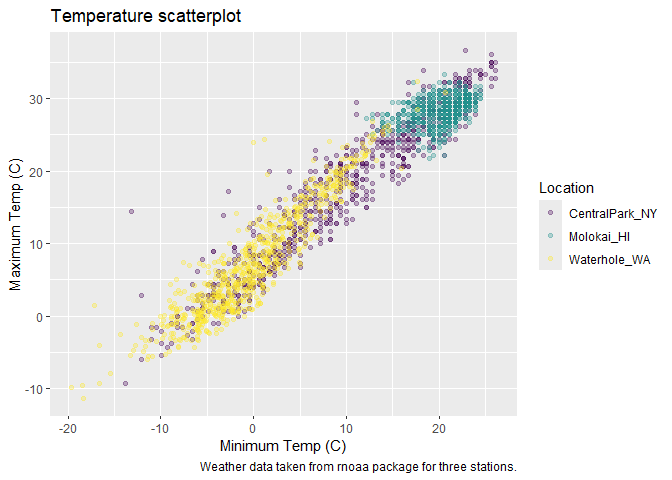
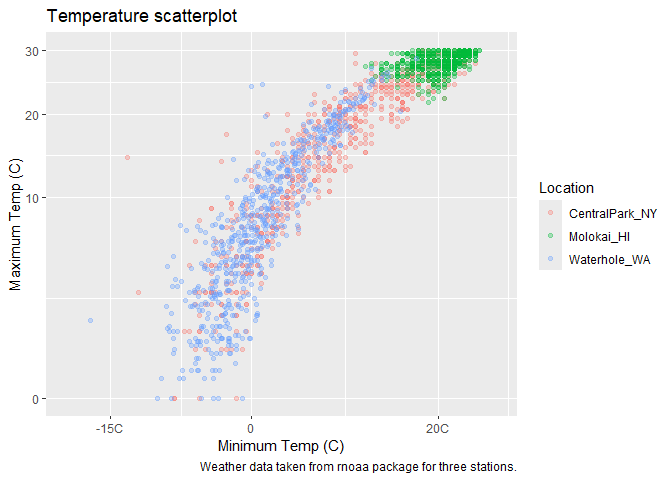
themes; patchwork; setting options

diff --git a/Vis_2.md b/Vis_2.md
@@ -99,6 +99,7 @@ Look at color:
 Use `viridis` package to choose color scheme
 
 ``` r
+ggp_scatterplot = 
 weather_df %>%
   ggplot(aes(x = tmin, y = tmax, color = name)) +
   geom_point(alpha = .3) +
@@ -112,7 +113,219 @@ weather_df %>%
   viridis::scale_color_viridis(discrete = TRUE)
 ```
 
+Themes
+
+Themes are used to modify non-data elements of a plot.
+
+``` r
+ggp_scatterplot +
+  theme(legend.position = "bottom")
+```
+
     ## Warning: Removed 17 rows containing missing values or values outside the scale range
     ## (`geom_point()`).
 
-![](Vis_2_files/figure-gfm/unnamed-chunk-4-1.png)<!-- -->
+![](Vis_2_files/figure-gfm/unnamed-chunk-5-1.png)<!-- -->
+
+``` r
+ggp_scatterplot +
+  theme_bw() +
+  theme(legend.position = "bottom")
+```
+
+    ## Warning: Removed 17 rows containing missing values or values outside the scale range
+    ## (`geom_point()`).
+
+![](Vis_2_files/figure-gfm/unnamed-chunk-6-1.png)<!-- -->
+
+Order matters…
+
+`theme()` changes a particular element of the plot’s current “theme”. If
+you call theme to change the some element and then `theme_bw()`, the
+changes introduced by `theme()` are overwritten by `theme_bw()`.
+
+``` r
+ggp_scatterplot +
+  theme(legend.position = "bottom") +
+  theme_bw()
+```
+
+    ## Warning: Removed 17 rows containing missing values or values outside the scale range
+    ## (`geom_point()`).
+
+![](Vis_2_files/figure-gfm/unnamed-chunk-7-1.png)<!-- -->
+
+``` r
+ggp_scatterplot +
+  theme_minimal() +
+  theme(legend.position = "bottom")
+```
+
+    ## Warning: Removed 17 rows containing missing values or values outside the scale range
+    ## (`geom_point()`).
+
+![](Vis_2_files/figure-gfm/unnamed-chunk-8-1.png)<!-- -->
+
+``` r
+ggp_scatterplot +
+  theme_classic() +
+  theme(legend.position = "bottom")
+```
+
+    ## Warning: Removed 17 rows containing missing values or values outside the scale range
+    ## (`geom_point()`).
+
+![](Vis_2_files/figure-gfm/unnamed-chunk-9-1.png)<!-- -->
+
+``` r
+ggp_scatterplot +
+  ggthemes::theme_excel() +
+  theme(legend.position = "bottom")
+```
+
+    ## Warning: Removed 17 rows containing missing values or values outside the scale range
+    ## (`geom_point()`).
+
+![](Vis_2_files/figure-gfm/unnamed-chunk-10-1.png)<!-- -->
+
+Learning assessment
+
+``` r
+weather_df %>% 
+  ggplot(aes(x = date, y = tmax, color = name)) +
+  geom_point(alpha = .3) +
+  geom_smooth(se = FALSE) +
+  viridis::scale_color_viridis(discrete = TRUE) +
+  labs(
+    x = "Date",
+    y = "Maximum Temp (C)",
+    title = "Seasonal variation in Max Temp"
+  ) +
+  theme_minimal() +
+  theme(legend.position = "bottom")
+```
+
+    ## `geom_smooth()` using method = 'loess' and formula = 'y ~ x'
+
+    ## Warning: Removed 17 rows containing non-finite outside the scale range
+    ## (`stat_smooth()`).
+
+    ## Warning: Removed 17 rows containing missing values or values outside the scale range
+    ## (`geom_point()`).
+
+![](Vis_2_files/figure-gfm/unnamed-chunk-11-1.png)<!-- -->
+
+Extra bonus stuff in `ggplot`
+
+Use different datasets in different `geom`s
+
+``` r
+central_park_df = 
+  weather_df %>% 
+  filter(name == "CentralPark_NY")
+
+molokai_df = 
+  weather_df %>% 
+  filter(name == "Molokai_HI")
+
+molokai_df %>% 
+  ggplot(aes(x = date, y = tmax, color = name)) +
+  geom_point() +
+  geom_line(data = central_park_df)
+```
+
+    ## Warning: Removed 1 row containing missing values or values outside the scale range
+    ## (`geom_point()`).
+
+![](Vis_2_files/figure-gfm/unnamed-chunk-12-1.png)<!-- -->
+
+## Multiple panels
+
+``` r
+weather_df %>% 
+  ggplot(aes(x = tmax, fill = name)) +
+  geom_density() +
+  facet_grid(. ~ name)
+```
+
+    ## Warning: Removed 17 rows containing non-finite outside the scale range
+    ## (`stat_density()`).
+
+![](Vis_2_files/figure-gfm/unnamed-chunk-13-1.png)<!-- -->
+
+Use `library(patchwork)`
+
+``` r
+ggp_tmax_tmin = 
+  weather_df %>% 
+  ggplot(aes(x = tmin, y = tmax, color = name)) +
+  geom_point(alpha = .3)
+
+ggp_tmax_density = 
+  weather_df %>% 
+  ggplot(aes(x = tmax, fill = name)) +
+  geom_density(alpha = .3)
+
+ggp_tmax_date = 
+  weather_df %>% 
+  ggplot(aes(x = date, y = tmax, color = name)) +
+  geom_point() +
+  geom_smooth(se = FALSE)
+
+(ggp_tmax_tmin + ggp_tmax_density) / ggp_tmax_date
+```
+
+    ## Warning: Removed 17 rows containing missing values or values outside the scale range
+    ## (`geom_point()`).
+
+    ## Warning: Removed 17 rows containing non-finite outside the scale range
+    ## (`stat_density()`).
+
+    ## `geom_smooth()` using method = 'loess' and formula = 'y ~ x'
+
+    ## Warning: Removed 17 rows containing non-finite outside the scale range
+    ## (`stat_smooth()`).
+
+    ## Warning: Removed 17 rows containing missing values or values outside the scale range
+    ## (`geom_point()`).
+
+![](Vis_2_files/figure-gfm/unnamed-chunk-14-1.png)<!-- -->
+
+## Setting options
+
+In addition to figure sizing, I include a few other figure preferences
+in global options declared at the outset of each .Rmd file (this code
+chunk just gets copy-and-pasted to the beginning of every new file).
+
+``` r
+library(tidyverse)
+
+knitr::opts_chunk$set(
+  fig.width = 6,
+  fig.asp = .6,
+  out.width = "90%"
+)
+
+theme_set(theme_minimal() + theme(legend.position = "bottom"))
+
+options(
+  ggplot2.continuous.colour = "viridis",
+  ggplot2.continuous.fill = "viridis"
+)
+
+scale_colour_discrete = scale_colour_viridis_d
+scale_fill_discrete = scale_fill_viridis_d
+```
+
+## Data manipulation
+
+``` r
+weather_df %>% 
+  ggplot(aes(x = name, y = tmax, fill = name)) +
+  geom_violin(alpha = .5)
+```
+
+    ## Warning: Removed 17 rows containing non-finite outside the scale range
+    ## (`stat_ydensity()`).
+
+![](Vis_2_files/figure-gfm/unnamed-chunk-16-1.png)<!-- -->
